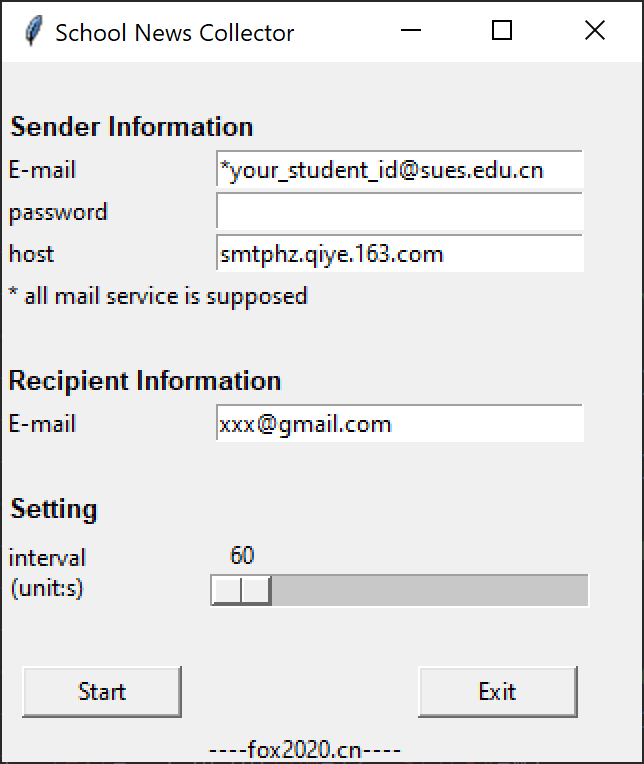
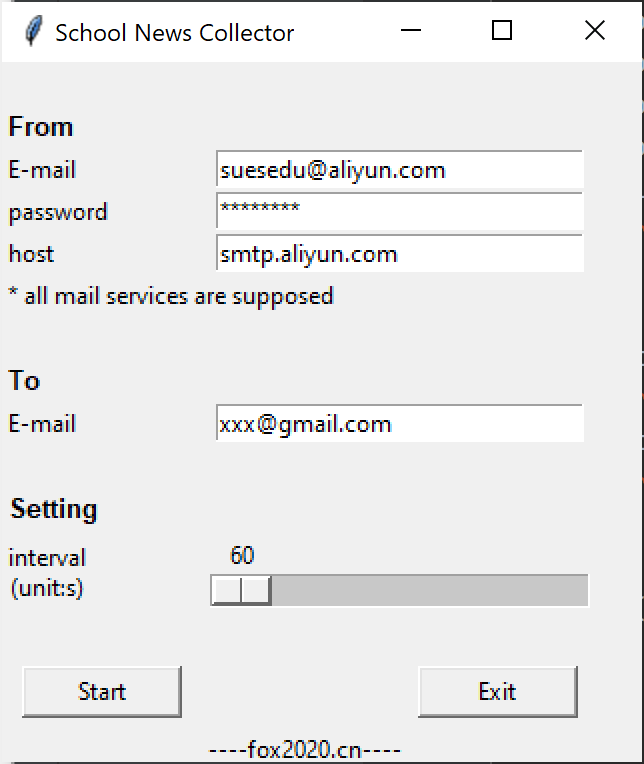
README update

diff --git a/main_UI.py b/main_UI.py
@@ -74,13 +74,13 @@ root.title('School News Collector')
 root.geometry('320x350')
 
 Label(root, text='').grid(row=0, sticky=W)
-Label(root, text='Sender Information', font=('Helvetica', '10', 'bold')).grid(row=1, sticky=W, columnspan=5)
+Label(root, text='From', font=('Helvetica', '10', 'bold')).grid(row=1, sticky=W, columnspan=5)
 Label(root, text='E-mail').grid(row=2, sticky=W)
 Label(root, text='password').grid(row=3, sticky=W)
 Label(root, text='host').grid(row=4, sticky=W)
-Label(root, text='* all mail service is supposed').grid(row=5, sticky=W, columnspan=5)
+Label(root, text='* all mail services are supposed').grid(row=5, sticky=W, columnspan=5)
 Label(root, text='').grid(row=6, sticky=W)
-Label(root, text='Recipient Information', font=('Helvetica', '10', 'bold')).grid(row=7, sticky=W, columnspan=5)
+Label(root, text='To', font=('Helvetica', '10', 'bold')).grid(row=7, sticky=W, columnspan=5)
 Label(root, text='E-mail').grid(row=8, sticky=W)
 Label(root, text='').grid(row=9, sticky=W)
 Label(root, text='Setting', font=('Helvetica', '10', 'bold')).grid(row=10, sticky=W, columnspan=5)
@@ -89,10 +89,11 @@ Label(root, text='').grid(row=12, sticky=W)
 Label(root, text='----fox2020.cn----').grid(row=16, sticky=W, padx=100, columnspan=5)
 
 v1 = StringVar()
-v1.set('*your_student_id@sues.edu.cn')
+v1.set('suesedu@aliyun.com')
 v2 = StringVar()
+v2.set('sues2020')
 v3 = StringVar()
-v3.set('smtphz.qiye.163.com')
+v3.set('smtp.aliyun.com')
 v4 = StringVar()
 v4.set('xxx@gmail.com')
 
